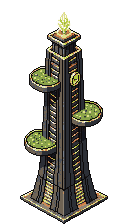
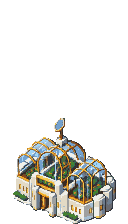
feat(carte): l'ère stellaire redessinée — nacre et or, anneaux orbitaux
Suite de la ville du futur (docs/PLAN-MAQUETTE-VIVANTE.md §8) : les 27 scènes moteur de
la bande 8 remplacent les tours noir et or. Même grammaire que la bande 7 (une
silhouette par fonction, trois hauteurs, calage commun), langue de l'ère stellaire :
céramique blanche, métal doré brossé, verre ambré, anneaux orbitaux et voiles solaires
— capitole à dôme d'or ceint d'un anneau, bibliothèque en spirale, observatoire à
antenne dorée, école en anneau, marché sous voiles tendues, holo-théâtre planétaire,
cœur d'énergie solaire, spatioport de fret… La nuit, l'or s'allume
(sceneEmissive.js) : une ville dorée.

- scripts/fetchCosmicScene.mjs rogne à parts égales un débord de quelques pixels.
- Maisons cosmiques rééquilibrées : la grappe de capsules couvrait des quartiers entiers.

diff --git a/src/game/map/cityEngineSprites.js b/src/game/map/cityEngineSprites.js
@@ -82,17 +82,24 @@ function palierAsset(cle) {
 export const COSMIC_SCENE_KEYS = new Set([
   'cosmic-schools-7', 'cosmic-think_tanks-7', 'cosmic-libraries-7', 'cosmic-observatories-7',
   'cosmic-ministries-7', 'cosmic-scribes-7', 'cosmic-storytellers-7', 'cosmic-academies-7',
-  'cosmic-ancestral_cult-7', 'cosmic-universities-7', 'cosmic-printing_houses-7',
-  'cosmic-archive_grids-7', 'cosmic-sewers-7', 'cosmic-courthouses-7', 'cosmic-public_works-7',
-  'cosmic-ruin_architects-7', 'cosmic-bureaucracy-7', 'cosmic-watch-7',
+  'cosmic-ancestral_cult-7', 'cosmic-universities-7', 'cosmic-printing_houses-7', 'cosmic-archive_grids-7',
+  'cosmic-sewers-7', 'cosmic-courthouses-7', 'cosmic-public_works-7', 'cosmic-ruin_architects-7',
+  'cosmic-bureaucracy-7', 'cosmic-watch-7', 'cosmic-schools-8', 'cosmic-think_tanks-8',
+  'cosmic-libraries-8', 'cosmic-observatories-8', 'cosmic-ministries-8', 'cosmic-scribes-8',
+  'cosmic-storytellers-8', 'cosmic-academies-8', 'cosmic-ancestral_cult-8', 'cosmic-universities-8',
+  'cosmic-printing_houses-8', 'cosmic-archive_grids-8', 'cosmic-sewers-8', 'cosmic-courthouses-8',
+  'cosmic-public_works-8', 'cosmic-ruin_architects-8', 'cosmic-bureaucracy-8', 'cosmic-watch-8',
 ]);
 // Les scènes du STYLE NACRE (savoir/infra ci-dessus + les familles économie, dont
 // l'image `<famille>-cosmic-<bande>` a été redessinée en place). Leur verre s'allume la
 // nuit (sceneEmissive.js) et leur halo de jour se fait discret : un nuage de lumière
 // jade posé sur un bâtiment blanc en plein midi se lisait comme une brume.
 export const COSMIC_PEARL = new Set([
-  'market-cosmic-7', 'forager-cosmic-7', 'granary-cosmic-7', 'caravan-cosmic-7', 'guild-cosmic-7',
-  'mint-cosmic-7', 'bank-cosmic-7', 'port-cosmic-7', 'mill-cosmic-7',
+  'market-cosmic-7', 'forager-cosmic-7', 'granary-cosmic-7', 'caravan-cosmic-7',
+  'guild-cosmic-7', 'mint-cosmic-7', 'bank-cosmic-7', 'port-cosmic-7',
+  'mill-cosmic-7', 'market-cosmic-8', 'forager-cosmic-8', 'granary-cosmic-8',
+  'caravan-cosmic-8', 'guild-cosmic-8', 'mint-cosmic-8', 'bank-cosmic-8',
+  'port-cosmic-8', 'mill-cosmic-8',
 ]);
 const isPearl = (k) => COSMIC_PEARL.has(k) || COSMIC_SCENE_KEYS.has(k);
 export function cosmicSceneKey(kind, band) {

diff --git a/src/game/map/procedural/buildingGenerator.js b/src/game/map/procedural/buildingGenerator.js
@@ -73,8 +73,11 @@ export const VARIANTS_HOUSE = [
   // TOUR-JARDIN (terrasses plantées, éolienne), la MAISON-DÔME (trois coupoles, bassin),
   // la GRAPPE DE CAPSULES (cellules empilées, portes colorées). Elles sont plus BASSES que
   // les tours : c'est la gamme de hauteurs qui manquait à ces villes de monolithes.
-  { base: ["tower", "megablock", "arcologyhome", "gardentower", "domehome", "podstack", "gardentower", "podstack"],
-    poor: ["megablock", "podstack", "tower", "podstack", "domehome"],
+  // ⚠ Rééquilibré le jour même : la grappe de capsules, deux fois dans `base` et dans
+  // `poor`, couvrait des quartiers entiers (capture de la bande 7) — la répétition qu'on
+  // venait de chasser. Une fois par liste ; le dôme, bas et rond, prend sa place.
+  { base: ["tower", "megablock", "arcologyhome", "gardentower", "domehome", "podstack", "gardentower", "domehome"],
+    poor: ["megablock", "podstack", "tower", "domehome", "domehome"],
     rich: ["arcologyhome", "gardentower", "domehome", "tower", "gardentower"] }
 ];
 
